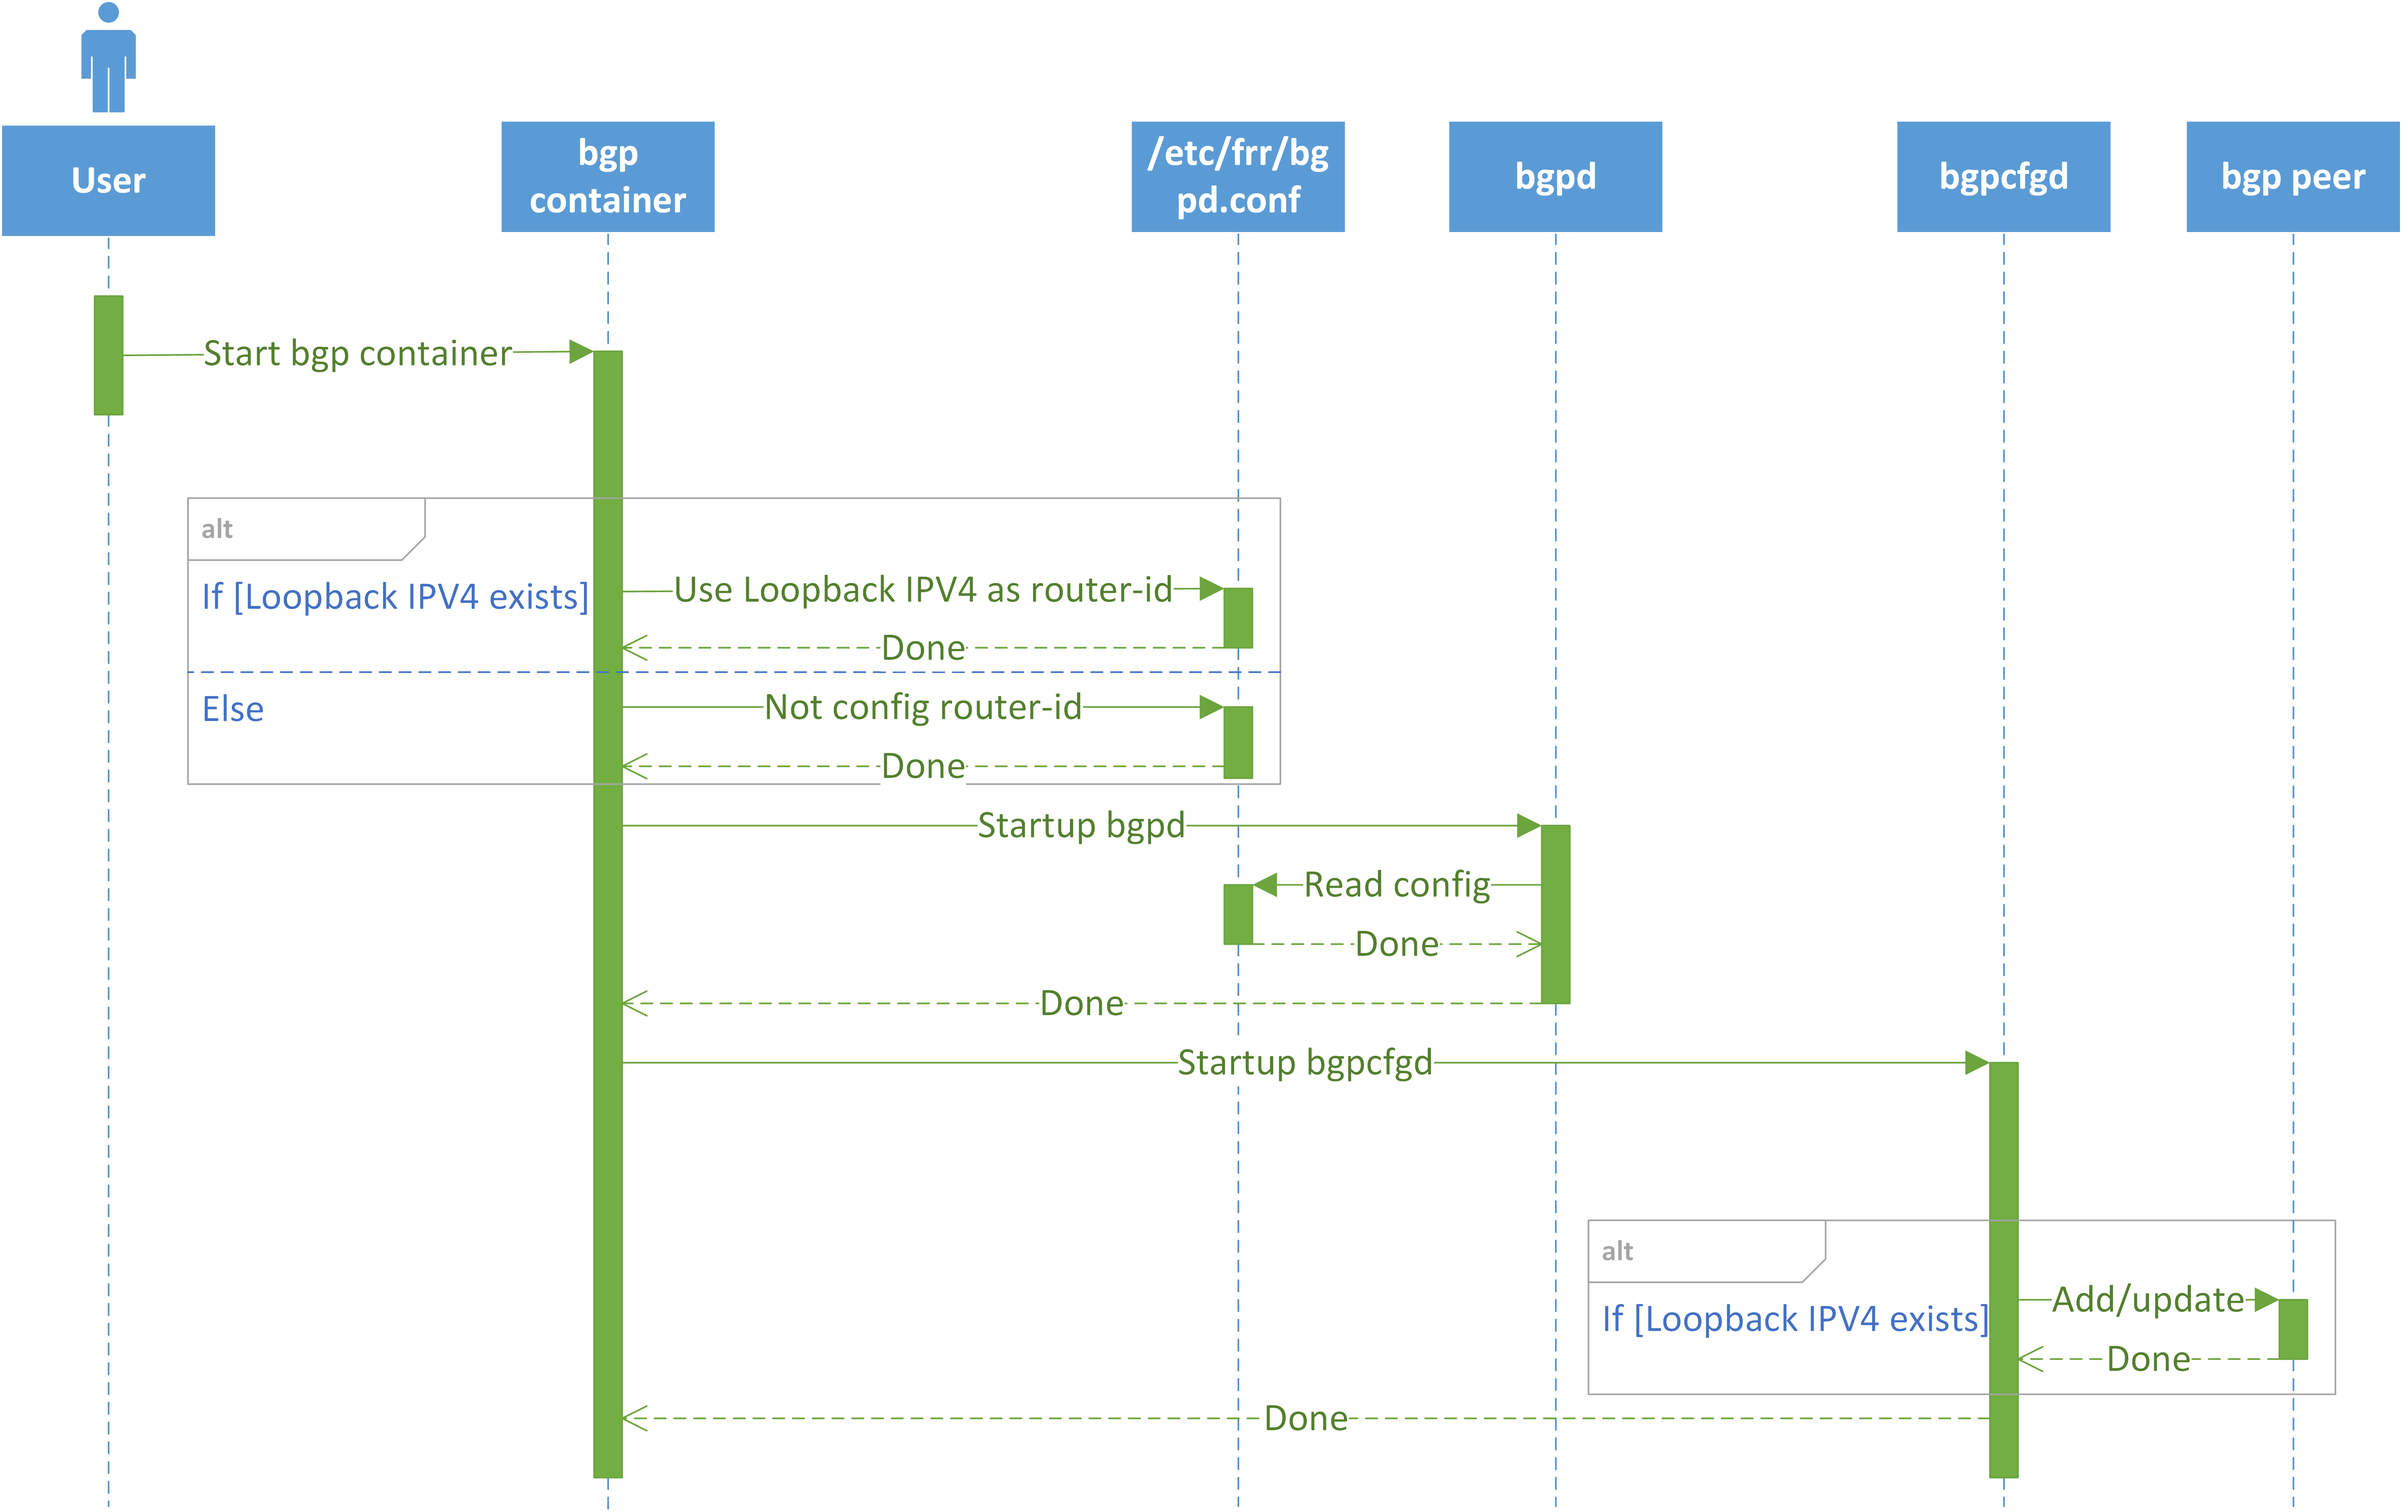
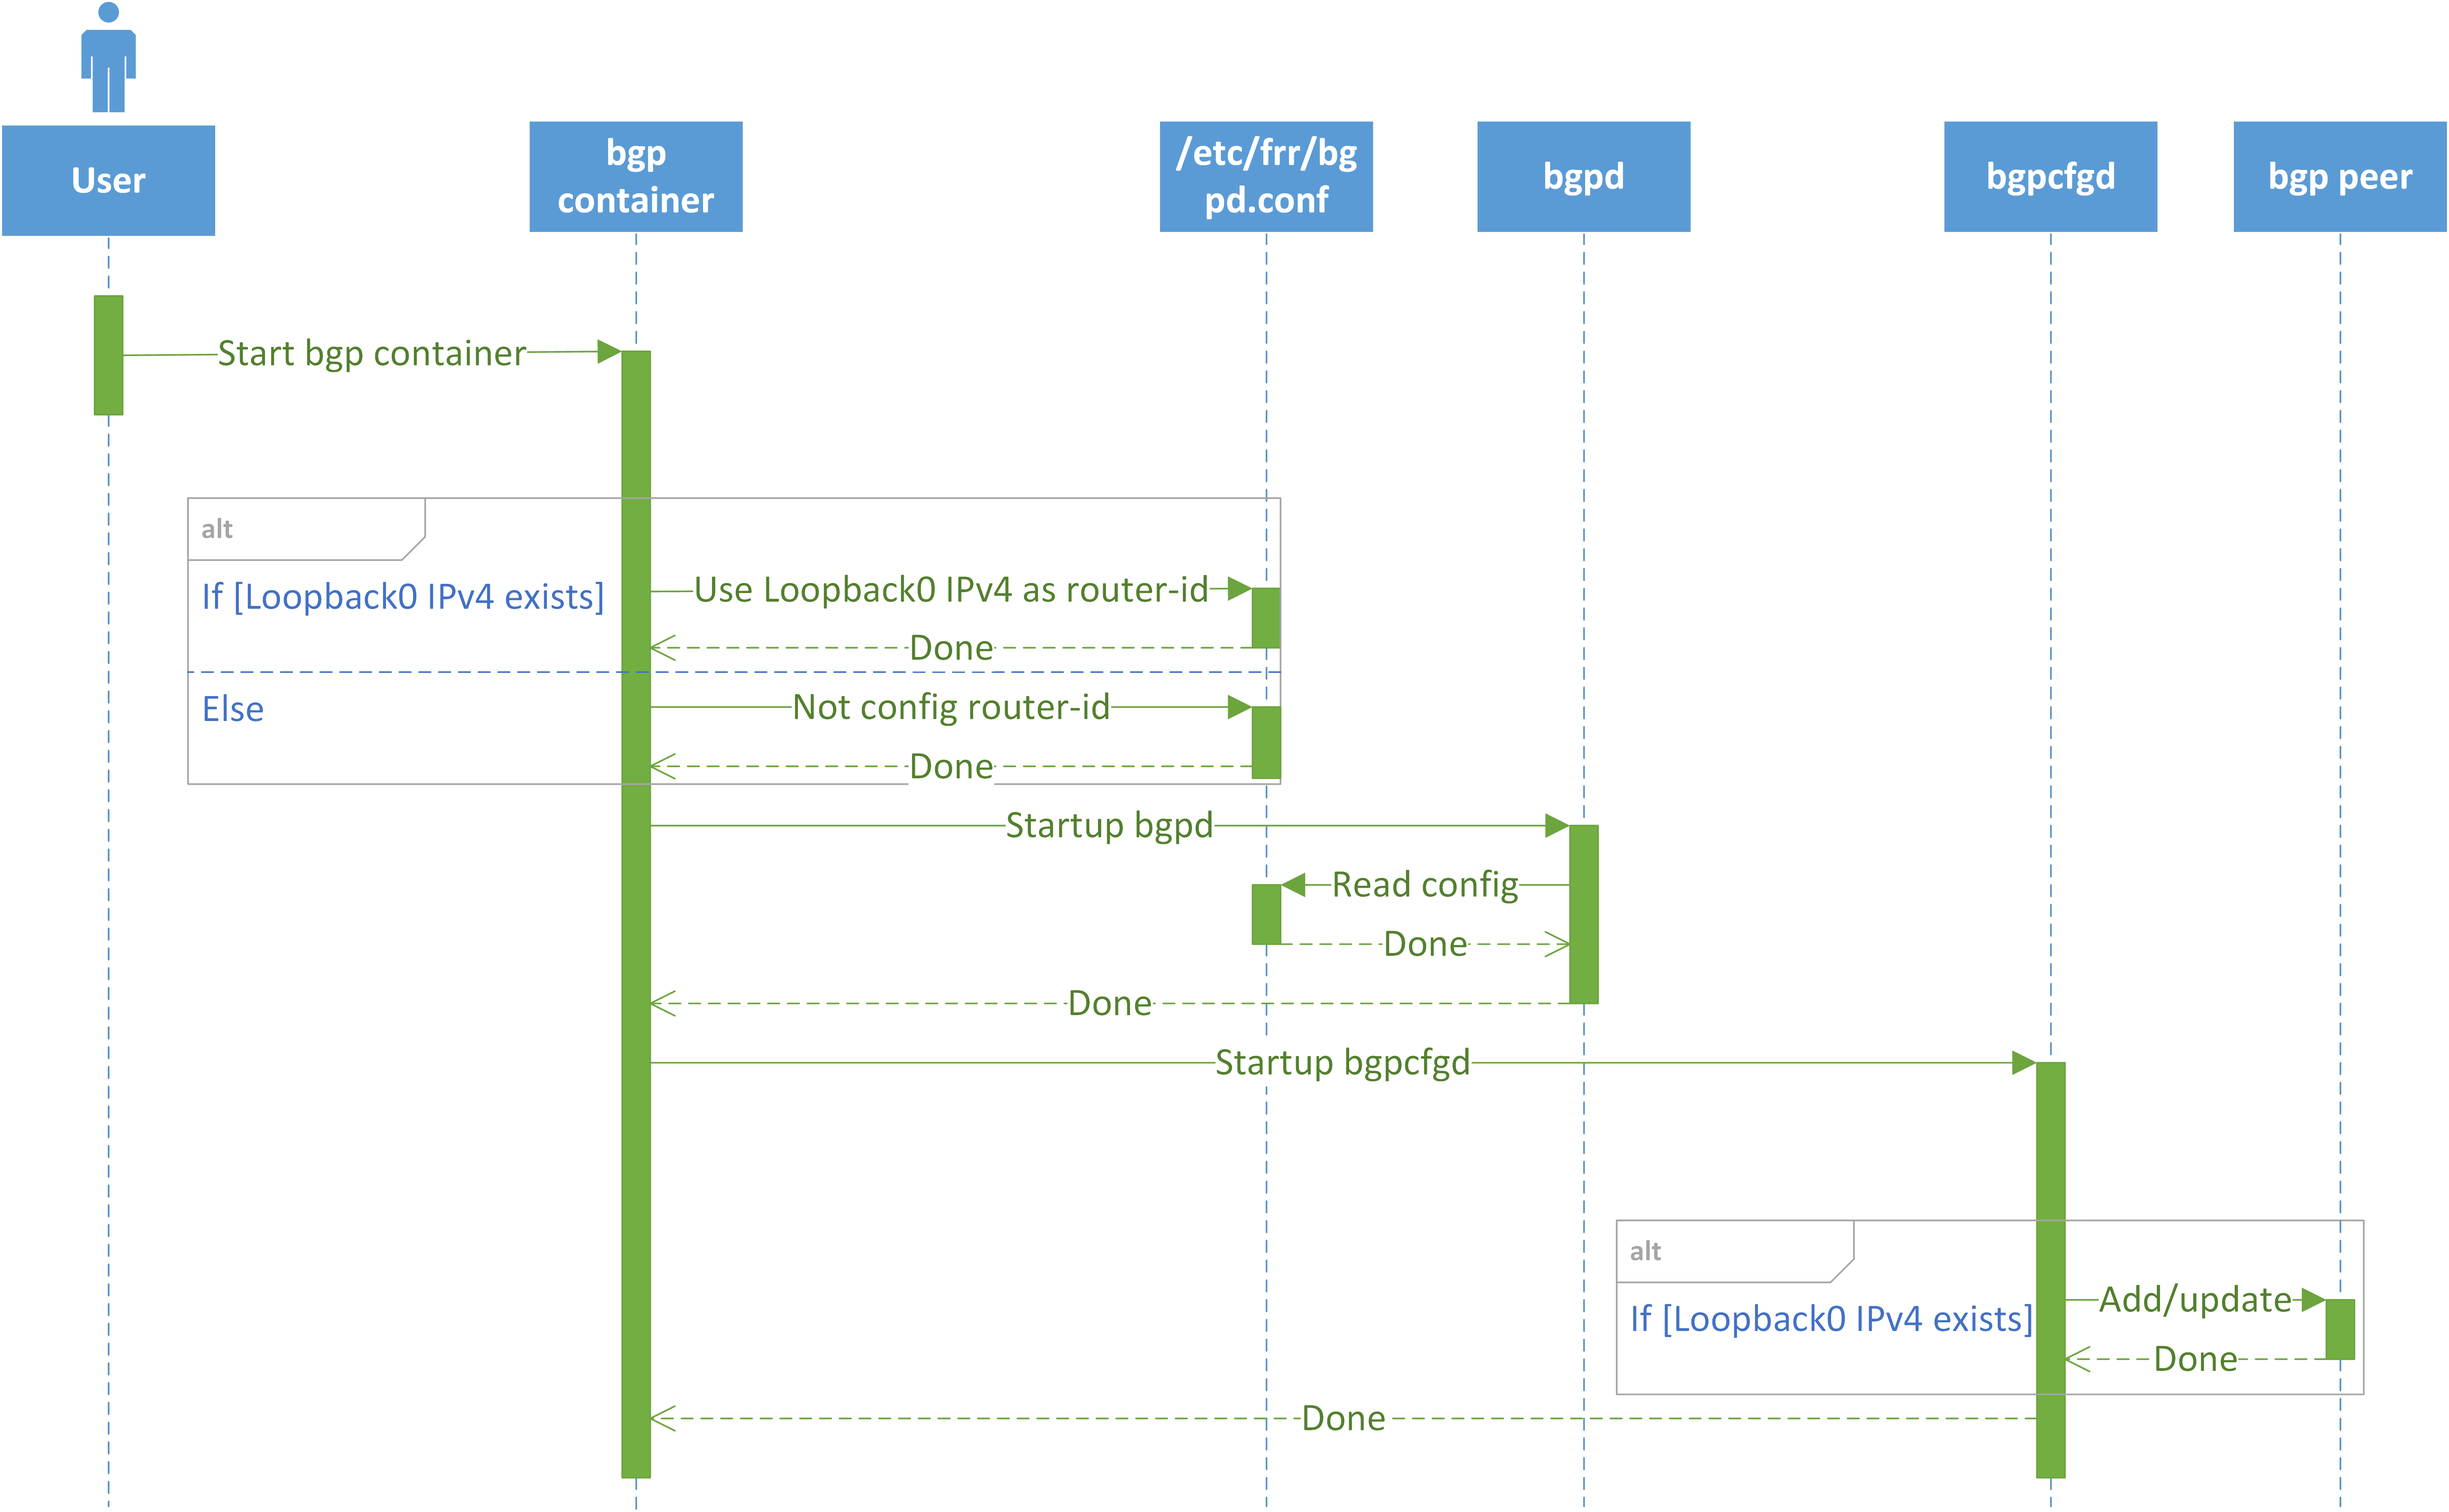
Update

diff --git a/doc/BGP/BGP-router-id.md b/doc/BGP/BGP-router-id.md
@@ -21,7 +21,6 @@
 | ------------------------ | ----------- |
 | FRR | A free and open source Internet routing protocol suite for Linux and Unix platforms |
 | BGP Router ID | 32-bit value that uniquely identifies a BGP device |
-| Lo | Loopback interface in SONiC |
 | AS | Autonomous System |
 
 ### Scope
@@ -31,14 +30,14 @@ This document describes a mechanism to allow user explicitly configure BGP route
 ### Overview
 
 Currently, there are some BGP hard codings in SONiC:
-1. BGP router id was defined as a 32-bit value that uniquely identifies a BGP device. SONiC uses Lo IPv4 address as BGP router id. This coupling prevents users from using customized router id. And FRR would choose an IP address in device to be BGP router id if Lo IPv4 address doesn't exist. If the router id choosen by FRR is not unique in AS, it would be considered an error.
-2. SONiC wouldn't add BGP peer when there is not Lo IPv4 exists. It would cause BGP cannot establish.
+1. BGP router id was defined as a 32-bit value that uniquely identifies a BGP device. SONiC uses Loopback0 IPv4 address as BGP router id. This coupling prevents users from using customized router id. And FRR would choose an IP address in device to be BGP router id if Loopback0 IPv4 address doesn't exist. If the router id choosen by FRR is not unique in AS, it would be considered an error.
+2. SONiC wouldn't add BGP peer when there is not Loopback0 IPv4 exists. It would cause BGP cannot establish.
 
-Below is current workflow about BGP and router id, only includes contents related to Lo.
+Below is current workflow about BGP and router id, only includes contents related to Loopback0.
 
-1. After bgp container started, configuration file `/etc/frr/bgpd.conf` for bgpd would be rendered. It will use Lo IPv4 address as BGP router id, if it doesn't exist, the BGP router id wouldn't be specified.
+1. After bgp container started, configuration file `/etc/frr/bgpd.conf` for bgpd would be rendered. It will use Loopback0 IPv4 address as BGP router id, if it doesn't exist, the BGP router id wouldn't be specified.
 2. bgpd start with configuration rendered before. If BGP router id is not specified, it would choose an IP address in device to be BGP router id.
-3. After bgpcfgd started, it will add bgp peer depends on whether Lo IPv4 exist.
+3. After bgpcfgd started, it will add bgp peer depends on whether Loopback0 IPv4 exist.
 
 <p align=center>
 <img src="img/origin_bgp_seq.png" alt="Figure 1. Origin bgp seq" width=700>
@@ -52,19 +51,30 @@ Add support to allow user explicitly configure BGP router id.
 
 2 aspects enhancement:
 
-1. Add a field `bgp_router_id` in `CONFIG_DB["DEVICE_METADATA"]["localhost"]` to support explicitly configure BGP router id. If `CONFIG_DB["DEVICE_METADATA"]["localhost"]["bgp_router_id"]` configured, always use it as BGP router id no matter whether Lo IPv4 exist.
-2. Remove strong dependencies on Lo IPv4 address when adding BGP peer. Currently, Lo IPv4 address only used in adding monitor type BGP peer, it shouldn't block other types of BGP peer.
+1. Add a field `bgp_router_id` in `CONFIG_DB["DEVICE_METADATA"]["localhost"]` to support explicitly configure BGP router id. If `CONFIG_DB["DEVICE_METADATA"]["localhost"]["bgp_router_id"]` configured, always use it as BGP router id no matter whether Loopback0 IPv4 exist. With this change, the new BGP router id configuration behavior will be like follow. To be clarified that when bgp_router_id doesn't be configured, the behavior is totally same as previously.
+
+|           | Loopback0 IPv4 address exists | Loopback0 IPv4 address doesn't exist |
+|--------------|-------|------------|
+| bgp_router_id configured | Honor bgp_router_id | Honor bgp_router_id |
+| bgp_router_id doesn't be configured | Honor Loopback0 IPv4 address | FRR default router ID value is selected as a IP Address of the device. When router zebra is not enabled bgpd can’t get interface information so router-id is set to 0.0.0.0 |
+
+2. Remove strong dependencies on Loopback0 IPv4 address when adding BGP peer in the situation that bgp_router_id is configured.With this change, the new BGP peer adding behavior will be like follow. To be clarified that when bgp_router_id doesn't be configured, the behavior is totally same as previously.
+
+|          | Loopback0 IPv4 address exists | Loopback0 IPv4 address doesn't exist |
+|--------------|-------|------------|
+| bgp_router_id configured | Add BGP peer | Add BGP peer |
+| bgp_router_id doesn't be configured | Add BGP peer | Do not add BGP peer |
 
 Below is new workflow, the main changes are in `1.` and `3.`.
 
 1. After bgp container started, configuration file `/etc/frr/bgpd.conf` for bgpd is would be rendered.
-   * If CONFIG_DB`["DEVICE_METADATA"]["localhost"]["bgp_router_id"]` exist, use it as BGP router id.
-   * Else if Lo IPv4 address exists, use it as BGP router id.
+   * If CONFIG_DB`["DEVICE_METADATA"]["localhost"]["bgp_router_id"]` exists, use it as BGP router id.
+   * Else if Loopback0 IPv4 address exists, use it as BGP router id.
    * Else, BGP router id wouldn't be specified.
 2. bgpd start with configuration rendered before. If router id is not specified, it would choose an IP address in device to be router id, which would cause BGP cannot work if the router id is not unique in network.
 3. After bgpcfgd started, it will start BGP peer based on configuration.
-   * If peer type is not monitor, continue to add peer.
-   * Else if Lo IPv4 address exists, continue to add monitor peer.
+   * If Loopback0 IPv4 address exists, continue to add BGP peer.
+   * Else if CONFIG_DB`["DEVICE_METADATA"]["localhost"]["bgp_router_id"]` exists, continue to add BGP peer.
    * Else, do nothing.
 
 <p align=center>
